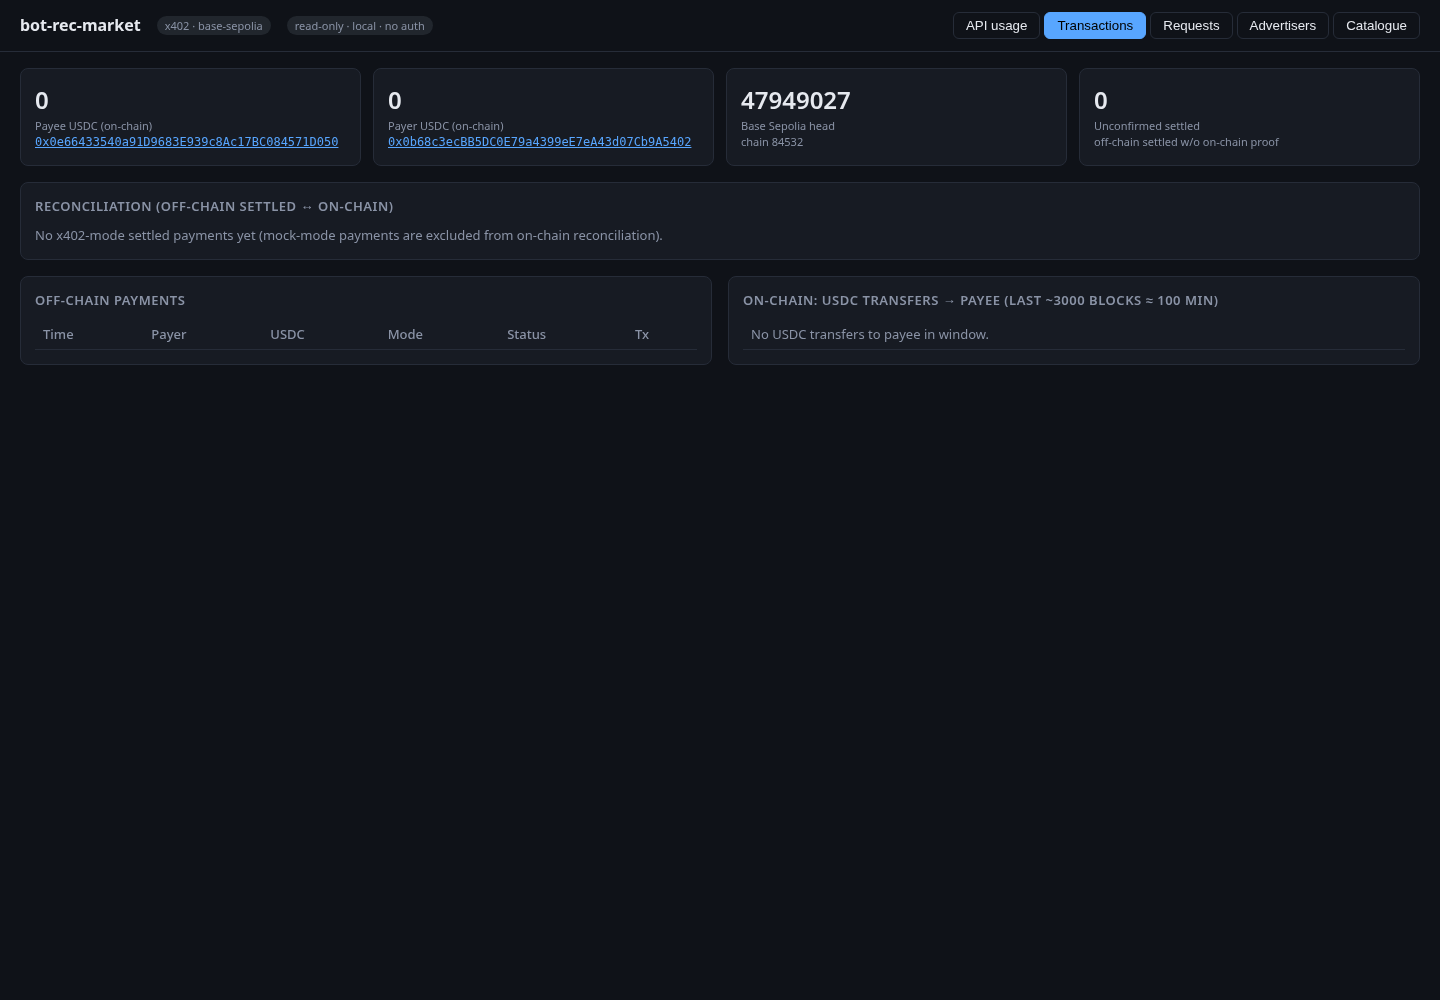
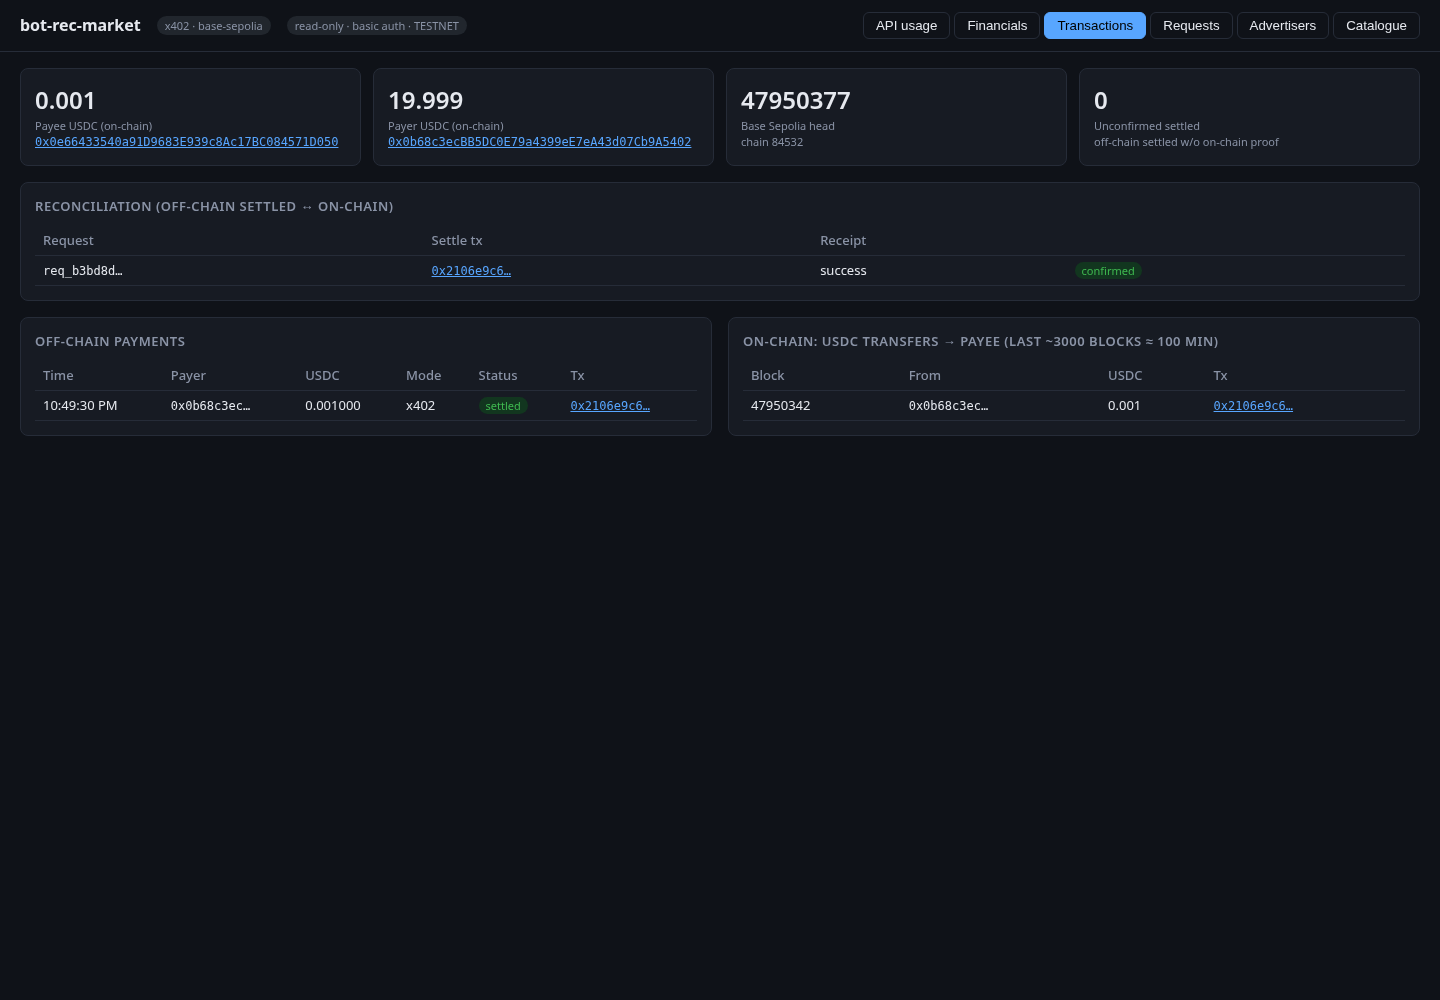
First end-to-end Base Sepolia paid call: refresh screenshots

diff --git a/scripts/screenshot-tx.ts b/scripts/screenshot-tx.ts
@@ -1,0 +1,10 @@
+import { chromium } from "playwright-core";
+(async () => {
+  const b = await chromium.launch({ executablePath: "/usr/bin/google-chrome", args: ["--no-sandbox"] });
+  const p = await b.newPage({ viewport: { width: 1440, height: 1000 }, httpCredentials: { username: "admin", password: process.env.DASHBOARD_PASSWORD! } });
+  await p.goto("http://localhost:8402/dashboard/"); await p.click("nav button[data-t=tx]"); await p.waitForTimeout(9000);
+  await p.screenshot({ path: "docs/dashboard-transactions.png", fullPage: true });
+  await p.click("nav button[data-t=req]"); await p.waitForTimeout(1000); await p.click("#reqs tr.click"); await p.waitForTimeout(800);
+  await p.click("#detail button.act"); await p.waitForTimeout(1200);
+  await p.screenshot({ path: "docs/dashboard-request-replay.png", fullPage: true }); await b.close();
+})();

diff --git a/scripts/screenshot.ts b/scripts/screenshot.ts
@@ -12,7 +12,7 @@ import { chromium } from "playwright-core";
   await p.screenshot({ path: "docs/dashboard-catalogue.png", fullPage: true });
   await p.click("nav button[data-t=req]"); await p.waitForTimeout(1000);
   if (await p.$("#reqs tr.click")) {
-    await p.click("#reqs tr.click"); await p.waitForTimeout(800); await p.click("button.act"); await p.waitForTimeout(1000);
+    await p.click("#reqs tr.click"); await p.waitForTimeout(800); await p.click("#detail button.act"); await p.waitForTimeout(1000);
     await p.screenshot({ path: "docs/dashboard-request-replay.png", fullPage: true });
   }
   await b.close();
